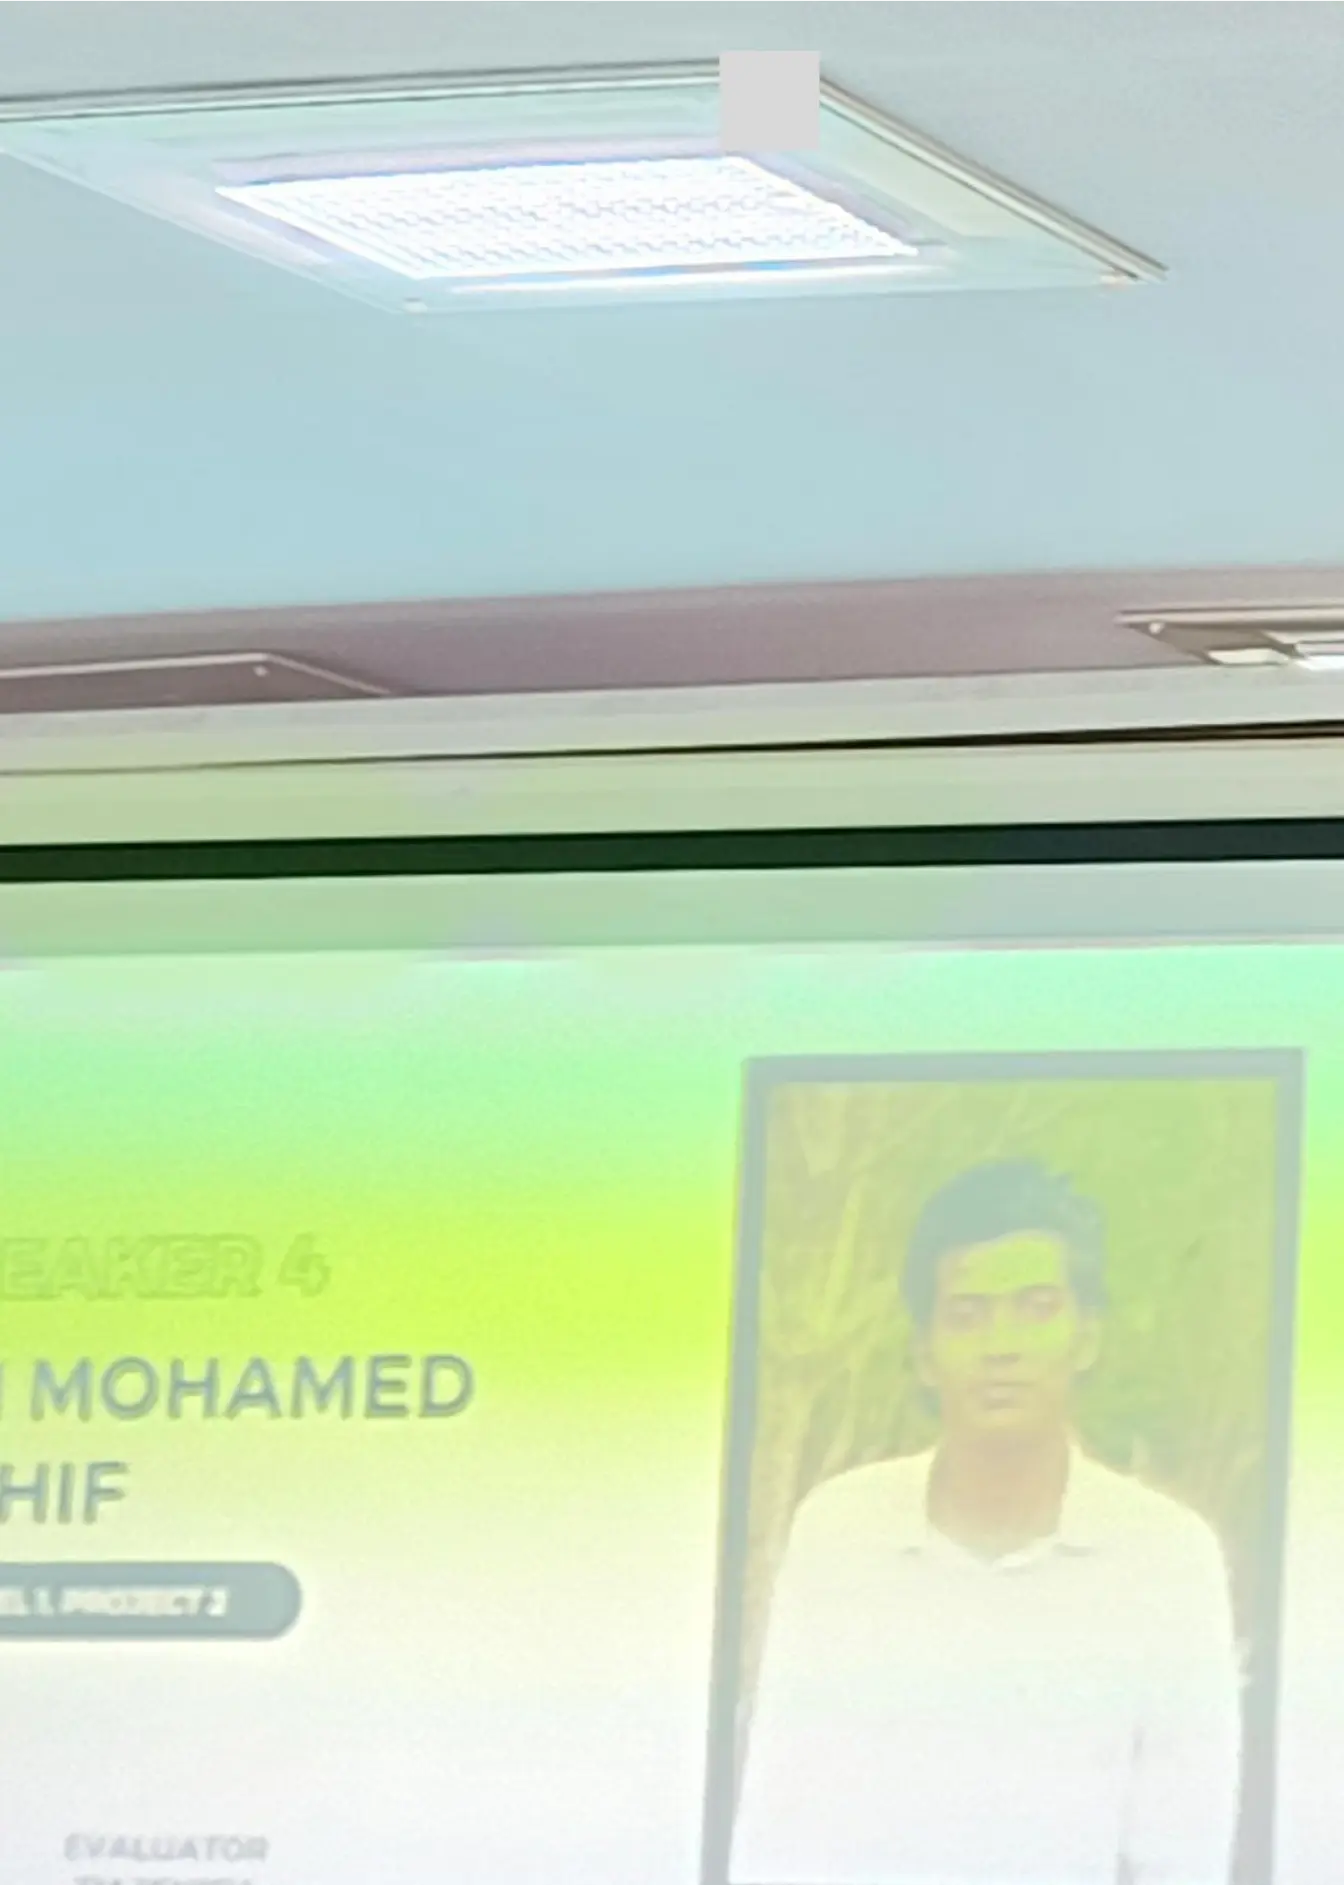
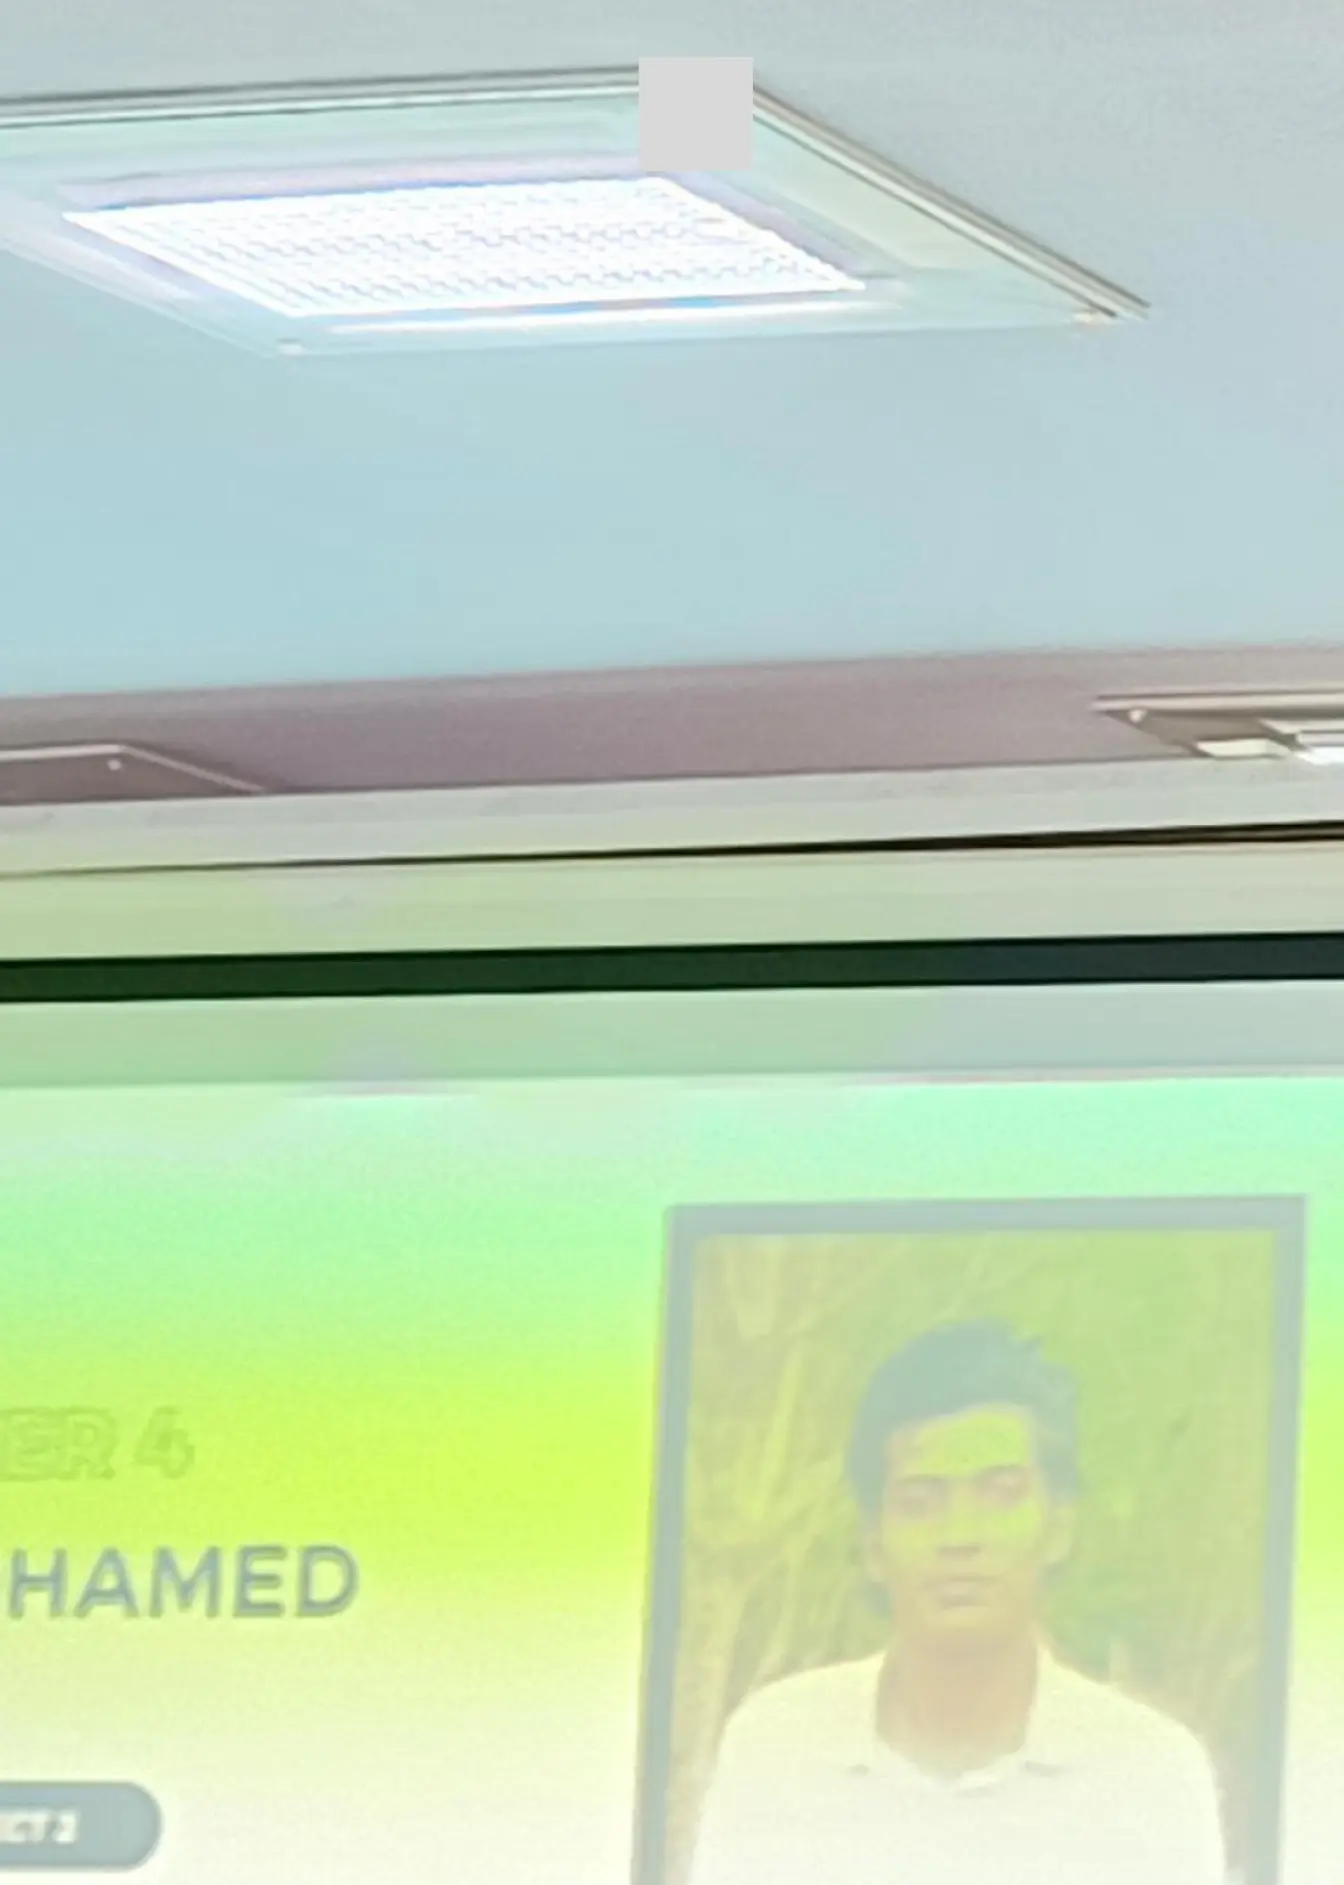
Update portfolio introduction to reflect final year status and changed frame 3 in the thriving in section

diff --git a/index.html b/index.html
@@ -110,7 +110,7 @@
             </div>
             <div class="about-section">
                 <section class="about-hero">
-                    <h1 class="heading--large">Hello! I’m Mohamed Ashif M, a pre-final year B.Tech student in Artificial Intelligence and Data Science at Stella Mary’s College of Engineering. I’m deeply passionate about building intuitive, data-driven, and visually engaging web experiences that create real impact.</h1>
+                    <h1 class="heading--large">Hello! I’m Mohamed Ashif M, a final year B.Tech student in Artificial Intelligence and Data Science at Stella Mary’s College of Engineering. I’m deeply passionate about building intuitive, data-driven, and visually engaging web experiences that create real impact.</h1>
                 </section>
             <section class="about-horizontal-scroll">
                 <div class="about-horizontal-scroll-wrapper">
